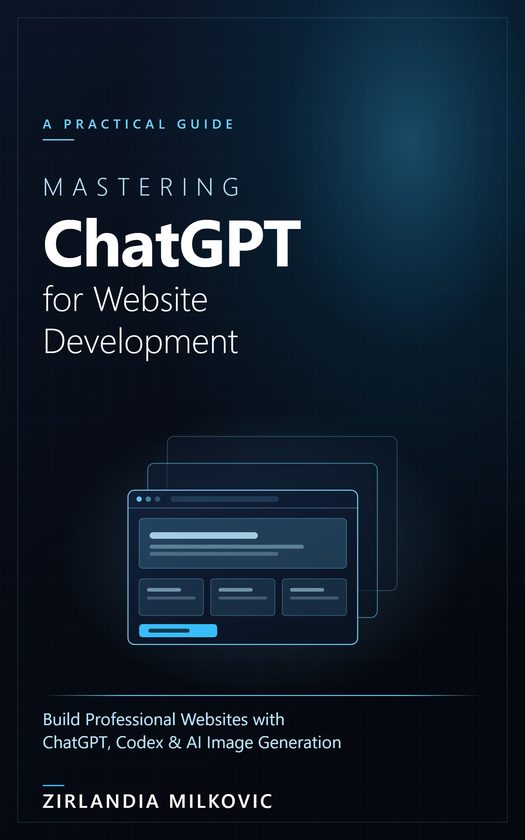
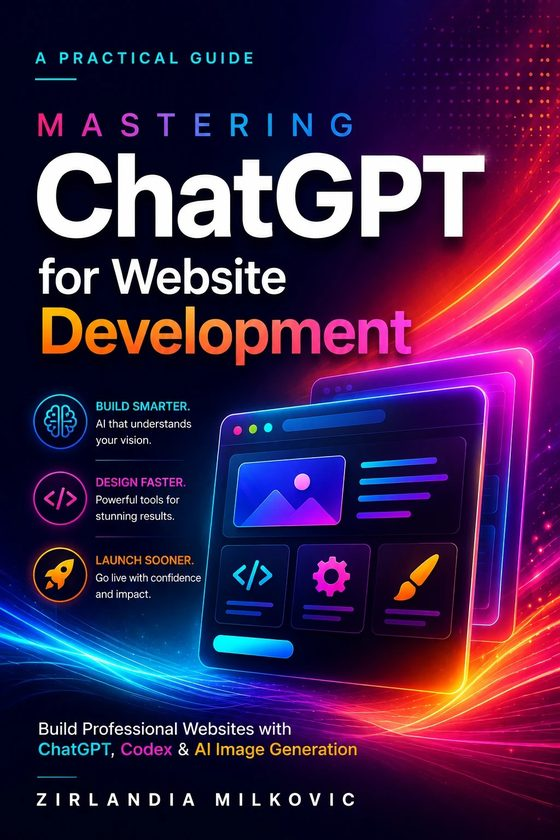
Use the new covers for Mastering ChatGPT for Website Development and YOU + AI on /books

diff --git a/books/index.html b/books/index.html
@@ -222,7 +222,7 @@
 </template>
 </article>
       <article class="card" id="b-chatgpt-web" data-id="chatgpt-web" data-cat="ai" data-free="0" data-search="mastering chatgpt for website development build professional websites with chatgpt, codex &amp; ai image generation use ai as your co-builder. this step-by-step guide covers chatgpt prompting, codex and ai coding workflows, image generation, and building a complete website from brief to launch.  english paperback kindle setting up chatgpt and prompt engineering that gets usable code using chatgpt and codex to build modern websites ai coding workflows and building complete projects creating images and content with ai an advanced prompt library, productivity tips and common mistakes building an entire website with ai, start to finish ai &amp; tech">
-  <button class="card__stage" type="button" data-open="chatgpt-web" aria-label="Details for Mastering ChatGPT for Website Development"><span class="book "><img src="assets/covers/chatgpt-web.jpg" width="525" height="840" alt="Cover of Mastering ChatGPT for Website Development" fetchpriority="high" decoding="async"></span></button>
+  <button class="card__stage" type="button" data-open="chatgpt-web" aria-label="Details for Mastering ChatGPT for Website Development"><span class="book "><img src="assets/covers/chatgpt-web.jpg" width="560" height="840" alt="Cover of Mastering ChatGPT for Website Development" fetchpriority="high" decoding="async"></span></button>
   <div class="card__body">
     <p class="badge ">2026 Edition</p>
     <h3 class="card__title">Mastering ChatGPT for Website Development</h3>
@@ -236,7 +236,7 @@
   </div>
   <template>
   <div class="detail">
-    <div class="detail__stage"><span class="book book--lg"><img src="assets/covers/chatgpt-web.jpg" width="525" height="840" alt="Cover of Mastering ChatGPT for Website Development" loading="lazy" decoding="async"></span></div>
+    <div class="detail__stage"><span class="book book--lg"><img src="assets/covers/chatgpt-web.jpg" width="560" height="840" alt="Cover of Mastering ChatGPT for Website Development" loading="lazy" decoding="async"></span></div>
     <div class="detail__body">
       <p class="eyebrow">2026 Edition</p>
       <h2 class="detail__title" id="detail-title">Mastering ChatGPT for Website Development</h2>
